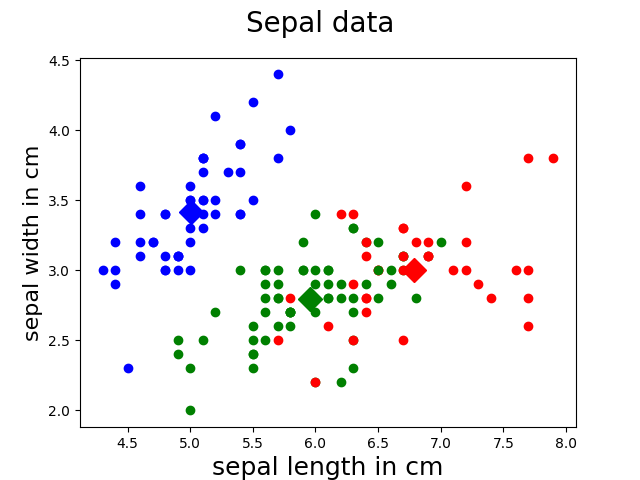
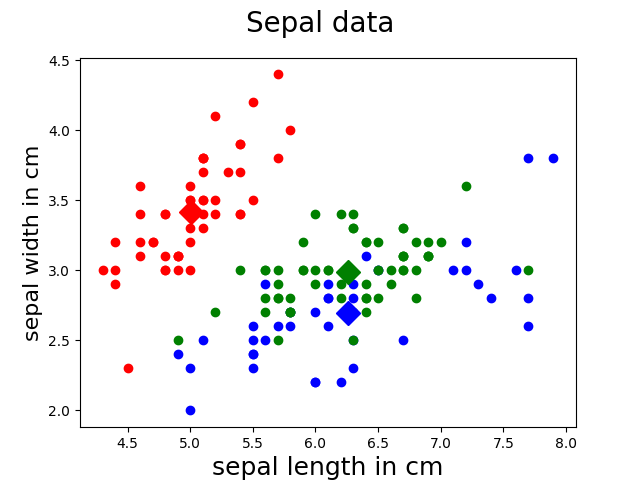
Add md

diff --git a/sol1.py b/sol1.py
@@ -42,7 +42,7 @@ class self(object):
                                             'petal length', 'petal width','class', 'Prob'])
         self.centroids = []
 
-    ''''''''''''''''''''''''''''''''''''''''''''''''''''''''''''''''''''''''''''''''''''''''''''''''
+    ''''''''''''''''''''''''''''''''''''''''''''''''''''''''''''''''''''''''''''''''''''''''''''''''''''''''''''''
     # load data as numpy array
     def load_data(self):
         data_set = loadtxt(self.data_file,delimiter=',')
@@ -53,7 +53,7 @@ class self(object):
         with open(self.feature_file,'r') as f:
             self.class_set = f.readline().split(',')
 
-    ''''''''''''''''''''''''''''''''''''''''''''''''''''''''''''''''''''''''''''''''''''''''''''''''
+    ''''''''''''''''''''''''''''''''''''''''''''''''''''''''''''''''''''''''''''''''''''''''''''''''''''''''''''''
     # init parameters
     def init_par(self):
         self.load_data()
@@ -68,7 +68,8 @@ class self(object):
         # init identity matrix as initial covariance matrix
         self.init_cov = [mat(np.identity(self.feature_count)) for _ in range(self.k)]
 
-    #calculate multivariate Normal distribution probabilities of each sample(gamma)
+    ''''''''''''''''''''''''''''''''''''''''''''''''''''''''''''''''''''''''''''''''''''''''''''''''''''''''''''''
+    # calculate multivariate Normal distribution probabilities of each sample(gamma)
     def G_prob(self, x, mu, cov):
         n = len(x[0])
         e_power = float(-0.5 * (x - mu) * (cov.I) * ((x - mu).T))
@@ -76,10 +77,12 @@ class self(object):
         gamma = power(e, e_power) / Deno
         return gamma
 
-
-    #implement EM Algorithm
+    ''''''''''''''''''''''''''''''''''''''''''''''''''''''''''''''''''''''''''''''''''''''''''''''''''''''''''''''
+    # implement EM Algorithm
     def EM(self):
+
         # init parameters
+        self.init_par()
         phi = self.init_phi
         cov = self.init_cov
         mu = self.init_mu
@@ -122,11 +125,12 @@ class self(object):
                 dif += distance[0,0]
         return gamma
 
-
+    ''''''''''''''''''''''''''''''''''''''''''''''''''''''''''''''''''''''''''''''''''''''''''''''''''''''''''''''
+    # cluster samples to k groups
     def cluster(self):
         # init centroids set for different classes
-        classification = mat(zeros((self.sample_count, 2)))
         gamma = self.EM()
+        classification = mat(zeros((self.sample_count, 2)))
 
 
         for i in range(self.sample_count):
@@ -143,10 +147,12 @@ class self(object):
         # set 'class' column data type to int
         self.result['class'] = pd.to_numeric(self.result['class'], downcast='signed', errors='coerce')
 
-
-
+    ''''''''''''''''''''''''''''''''''''''''''''''''''''''''''''''''''''''''''''''''''''''''''''''''''''''''''''''
+    # plot cluster
     def plot(self):
 
+        # implement cluster
+        self.cluster()
 
         # set dot type and color
         mark_sample = ['ro', 'bo', 'go', 'ok']
@@ -178,19 +184,17 @@ class self(object):
 
 
 if __name__ == '__main__':
+
     # Load data and init parameters
     files = ['Input/fisheriris.data','Input/feature.txt']
 
     # k=3
     k = int(input("Input the number of classes(try k=2,3,4):"))
     EM_data = self(files, k)
-    EM_data.init_par()
 
-    # Clustering data
-    EM_data.cluster()
+    # Plot cluster with sepal's data
+    EM_data.plot()
 
     # Save result
     EM_data.result.to_csv('Output/classification.csv')
 
-    # Plot cluster with sepal's data
-    EM_data.plot()
